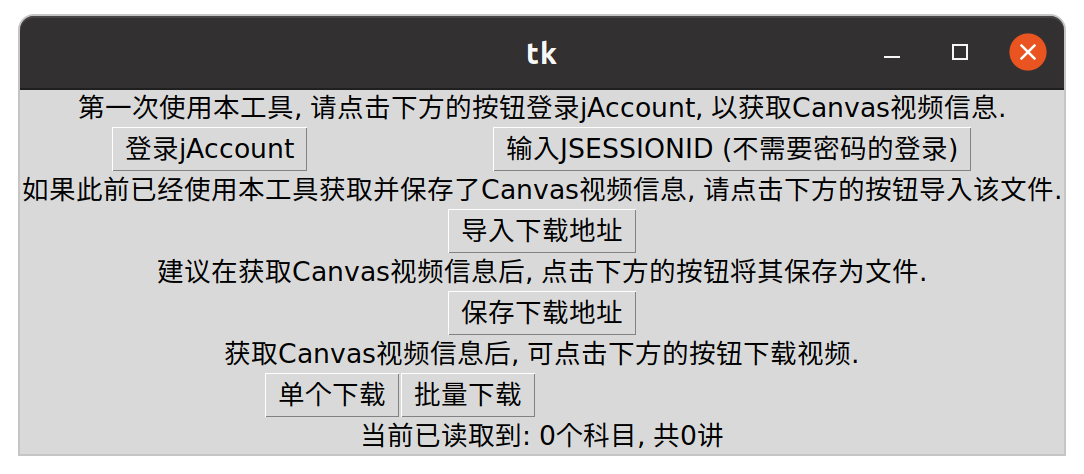
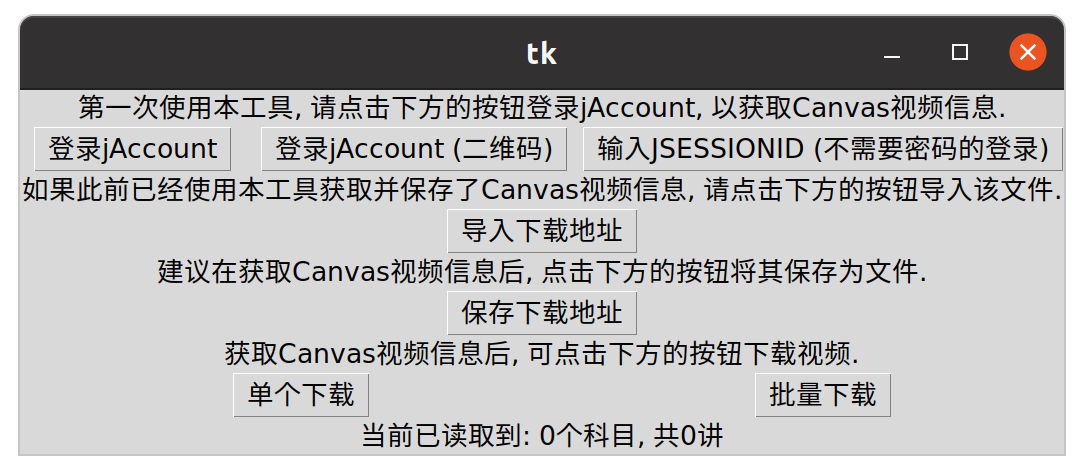
update README

Changed region(s): [[0.0304, 0.2658, 0.9742, 0.3544], [0.2131, 0.7975, 0.4871, 0.8861], [0.7002, 0.7975, 0.822, 0.8565]]

diff --git a/README.md b/README.md
@@ -2,13 +2,13 @@
 
 重制版!
 
-图形化界面! 采用tkinter实现!
+图形化界面! 采用`tkinter`实现!
 
 心动不如行动, 赶快试试吧!
 
 ### 界面展示
 
-##### Windows 10 (21H1, 64位)
+##### Windows 10 (21H1, 64位) / Windows 11 (21H2, 64位)
 
 主界面:
 
@@ -17,6 +17,10 @@
 登录界面:
 
 ![1-2](README.assets/1-2.png)
+
+二维码登录界面:
+
+![1-7](README.assets/1-7.png)
 
 JSESSIONID登录界面:
 
@@ -43,6 +47,10 @@ JSESSIONID登录界面:
 登录界面:
 
 ![2-2](README.assets/2-2.png)
+
+二维码登录界面:
+
+![2-7](README.assets/2-7.png)
 
 JSESSIONID登录界面:
 
